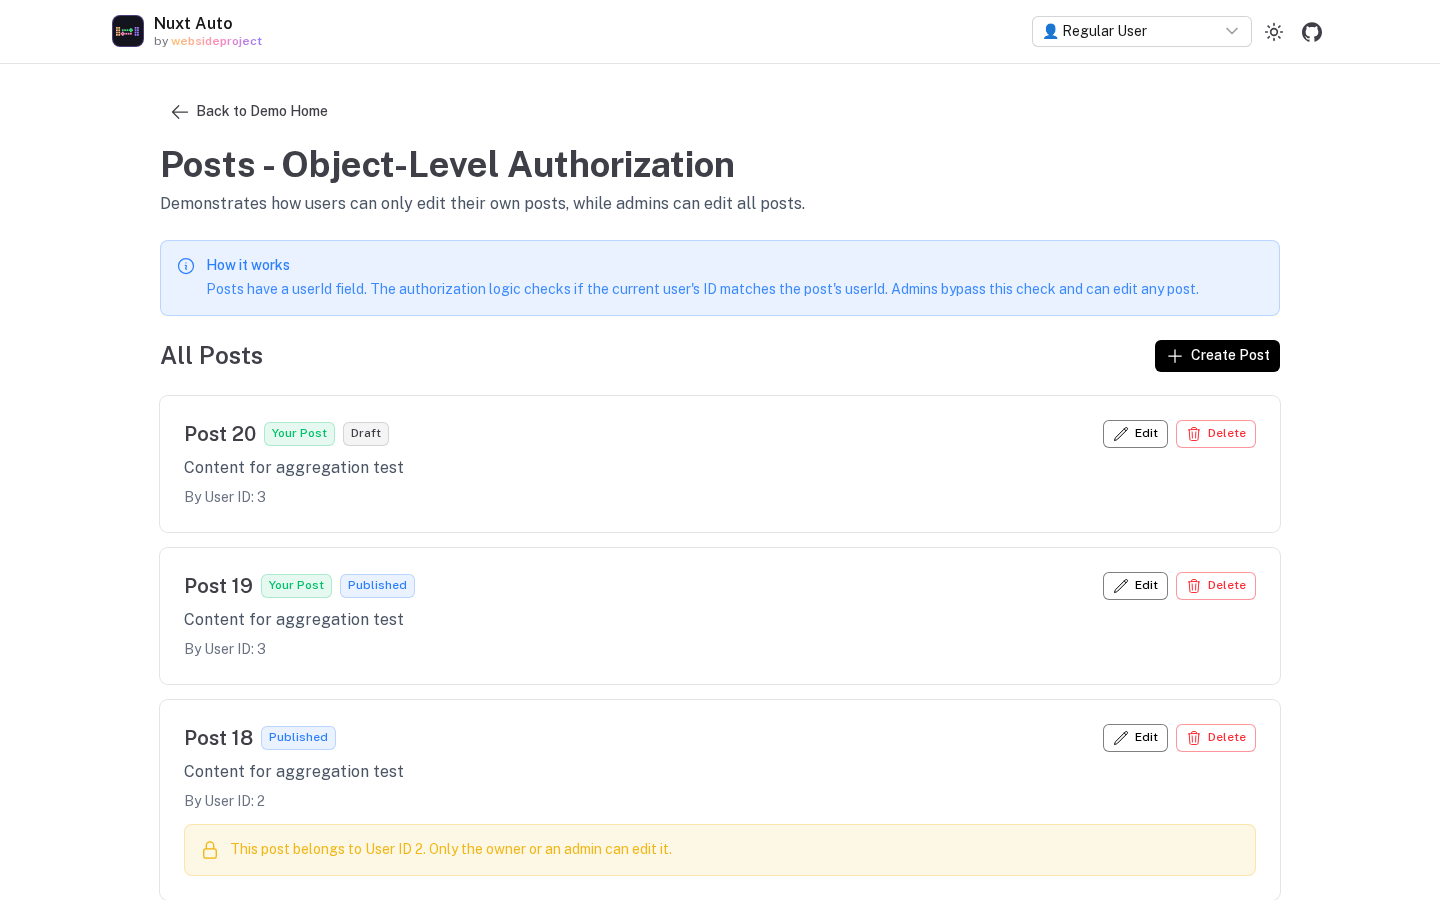
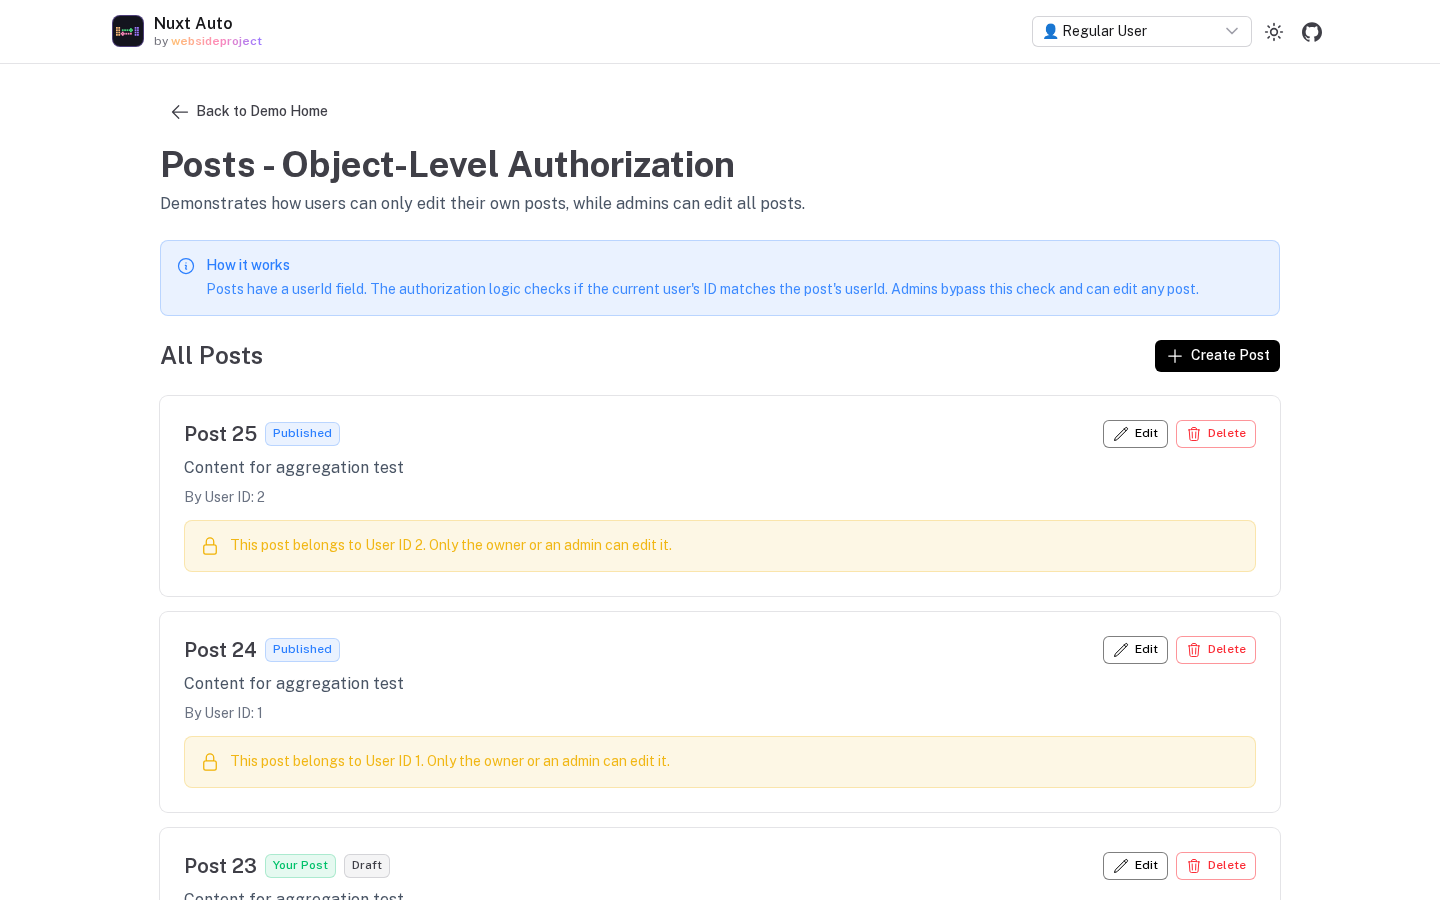
fix(playground): relation-errors demo shows the real setup; a second page of posts
- /demo/relation-errors, "Step 2", configured relations through
  autoApi.resources.posts.table, an option that does not exist. Includes run on
  Drizzle's relational queries, so the step is now: pass the schema, relations
  included, to drizzle(client, { schema }).
- The seed has 25 posts (5 appended; existing rows keep their timestamps), more than
  the admin's 20 per page. posts has an objectLevel rule, so its list has no total and
  pages by hasMore: the new admin-list-page-2 screenshot clicks Next and checks page 2
  (Post 21-25, Next disabled). Aggregation and posts pictures refreshed for 25 posts.

Changed region(s): [[0.125, 0.56, 0.875, 1.0], [0.1562, 0.4667, 0.2812, 0.4978], [0.7812, 0.7156, 0.875, 0.7467]]

diff --git a/apps/playground/app/pages/demo/relation-errors.vue b/apps/playground/app/pages/demo/relation-errors.vue
@@ -234,7 +234,7 @@
 
           <div>
             <h3 class="font-medium mb-2">
-              Step 2: Configure it in nuxt.config.ts
+              Step 2: Give Drizzle the schema, relations included
             </h3>
             <CodeBlock
               :code="fixStep2"
@@ -345,17 +345,15 @@ export const postsRelations = relations(posts, ({ one, many }) => ({
   comments: many(comments),
 }))`
 
-const fixStep2 = `// nuxt.config.ts
-export default defineNuxtConfig({
-  autoApi: {
-    resources: {
-      posts: {
-        table: posts,
-        relations: postsRelations, // Make sure to pass relations
-        // ...
-      }
-    }
-  }
+const fixStep2 = `// server/plugins/database.ts
+import Database from 'better-sqlite3'
+import { drizzle } from 'drizzle-orm/better-sqlite3'
+import { initializeDatabase } from '@websideproject/nuxt-auto-api/database'
+import * as schema from '../database/schema' // exports posts AND postsRelations
+
+export default defineNitroPlugin(() => {
+  // include= runs on Drizzle's relational queries: they only know the relations in this schema
+  initializeDatabase(drizzle(new Database('sqlite.db'), { schema }), 'better-sqlite3')
 })`
 
 const fixStep3 = `// Now you can use it!

diff --git a/apps/playground/server/database/seed.ts b/apps/playground/server/database/seed.ts
@@ -116,7 +116,13 @@ export async function seed() {
       { title: 'Post 17', content: 'Content for aggregation test', published: false, userId: 2 },
       { title: 'Post 18', content: 'Content for aggregation test', published: true, userId: 2 },
       { title: 'Post 19', content: 'Content for aggregation test', published: true, userId: 3 },
-      { title: 'Post 20', content: 'Content for aggregation test', published: false, userId: 3 }
+      { title: 'Post 20', content: 'Content for aggregation test', published: false, userId: 3 },
+      // 25 posts: more than the admin's 20 per page, so the admin shows a second page of this objectLevel resource
+      { title: 'Post 21', content: 'Content for aggregation test', published: true, userId: 1 },
+      { title: 'Post 22', content: 'Content for aggregation test', published: true, userId: 2 },
+      { title: 'Post 23', content: 'Content for aggregation test', published: false, userId: 3 },
+      { title: 'Post 24', content: 'Content for aggregation test', published: true, userId: 1 },
+      { title: 'Post 25', content: 'Content for aggregation test', published: true, userId: 2 }
     ], 1))
     .returning()
 

diff --git a/apps/playground/test/visual.spec.ts b/apps/playground/test/visual.spec.ts
@@ -124,6 +124,15 @@ const ADMIN_SHOTS: Shot[] = [
     name: 'admin-list-user', path: '/admin/articles', role: 'user', says: 'Building Type-Safe APIs with Drizzle', fullPage: false,
     act: page => openRowMenu(page)
   },
+  // posts has an objectLevel rule, so the list has no total: it pages by hasMore, with Previous / Next
+  {
+    name: 'admin-list-page-2', path: '/admin/posts', role: 'admin', says: 'Post 20',
+    act: async (page) => {
+      await page.getByRole('button', { name: 'Next' }).click()
+      await expect(page.getByText('Post 25')).toBeVisible()
+      await expect(page.getByRole('button', { name: 'Next' })).toBeDisabled()
+    }
+  },
   { name: 'admin-detail', path: '/admin/articles/1', role: 'admin', says: 'getting-started-nuxt-4' },
   { name: 'admin-create', path: '/admin/articles/new', role: 'admin', says: 'Author Id' },
   { name: 'admin-edit', path: '/admin/articles/1/edit', role: 'admin', says: 'TypeScript, Nuxt' }
